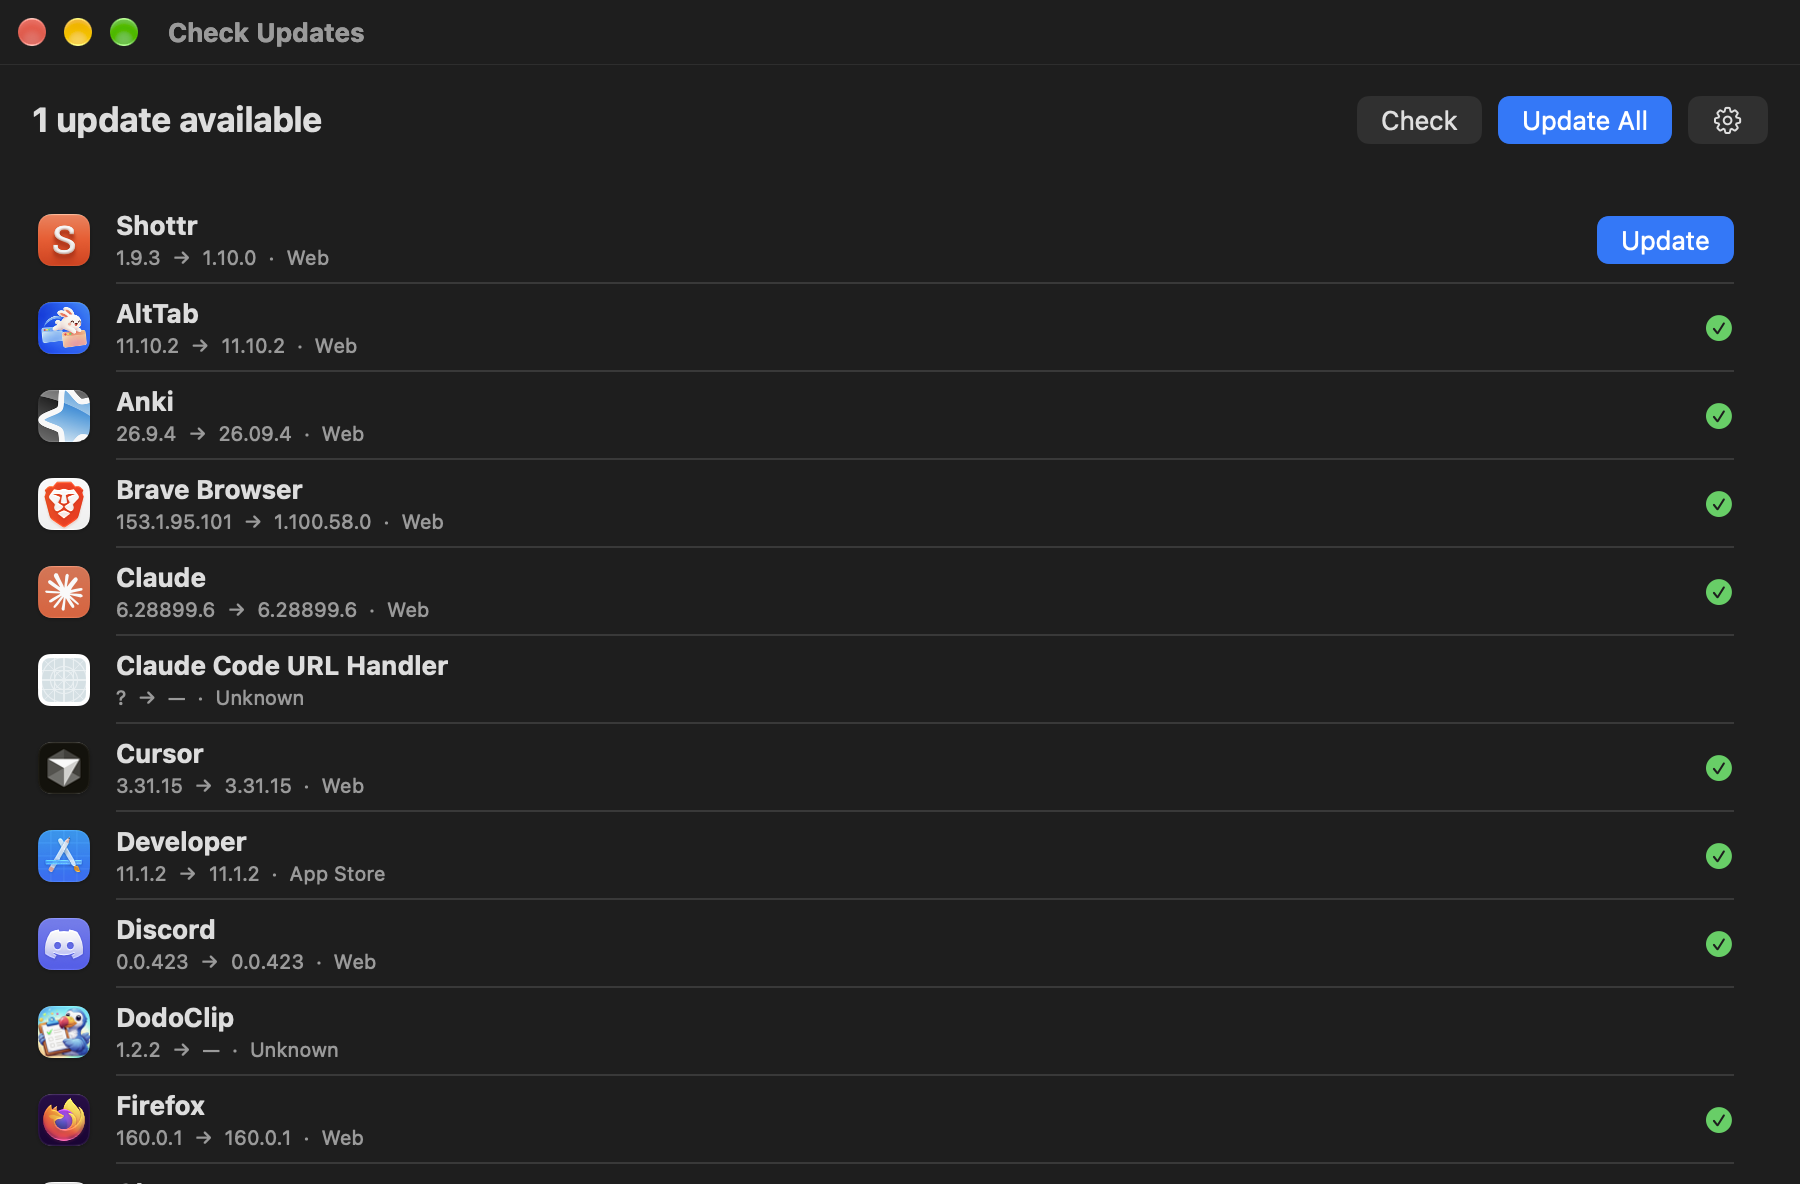
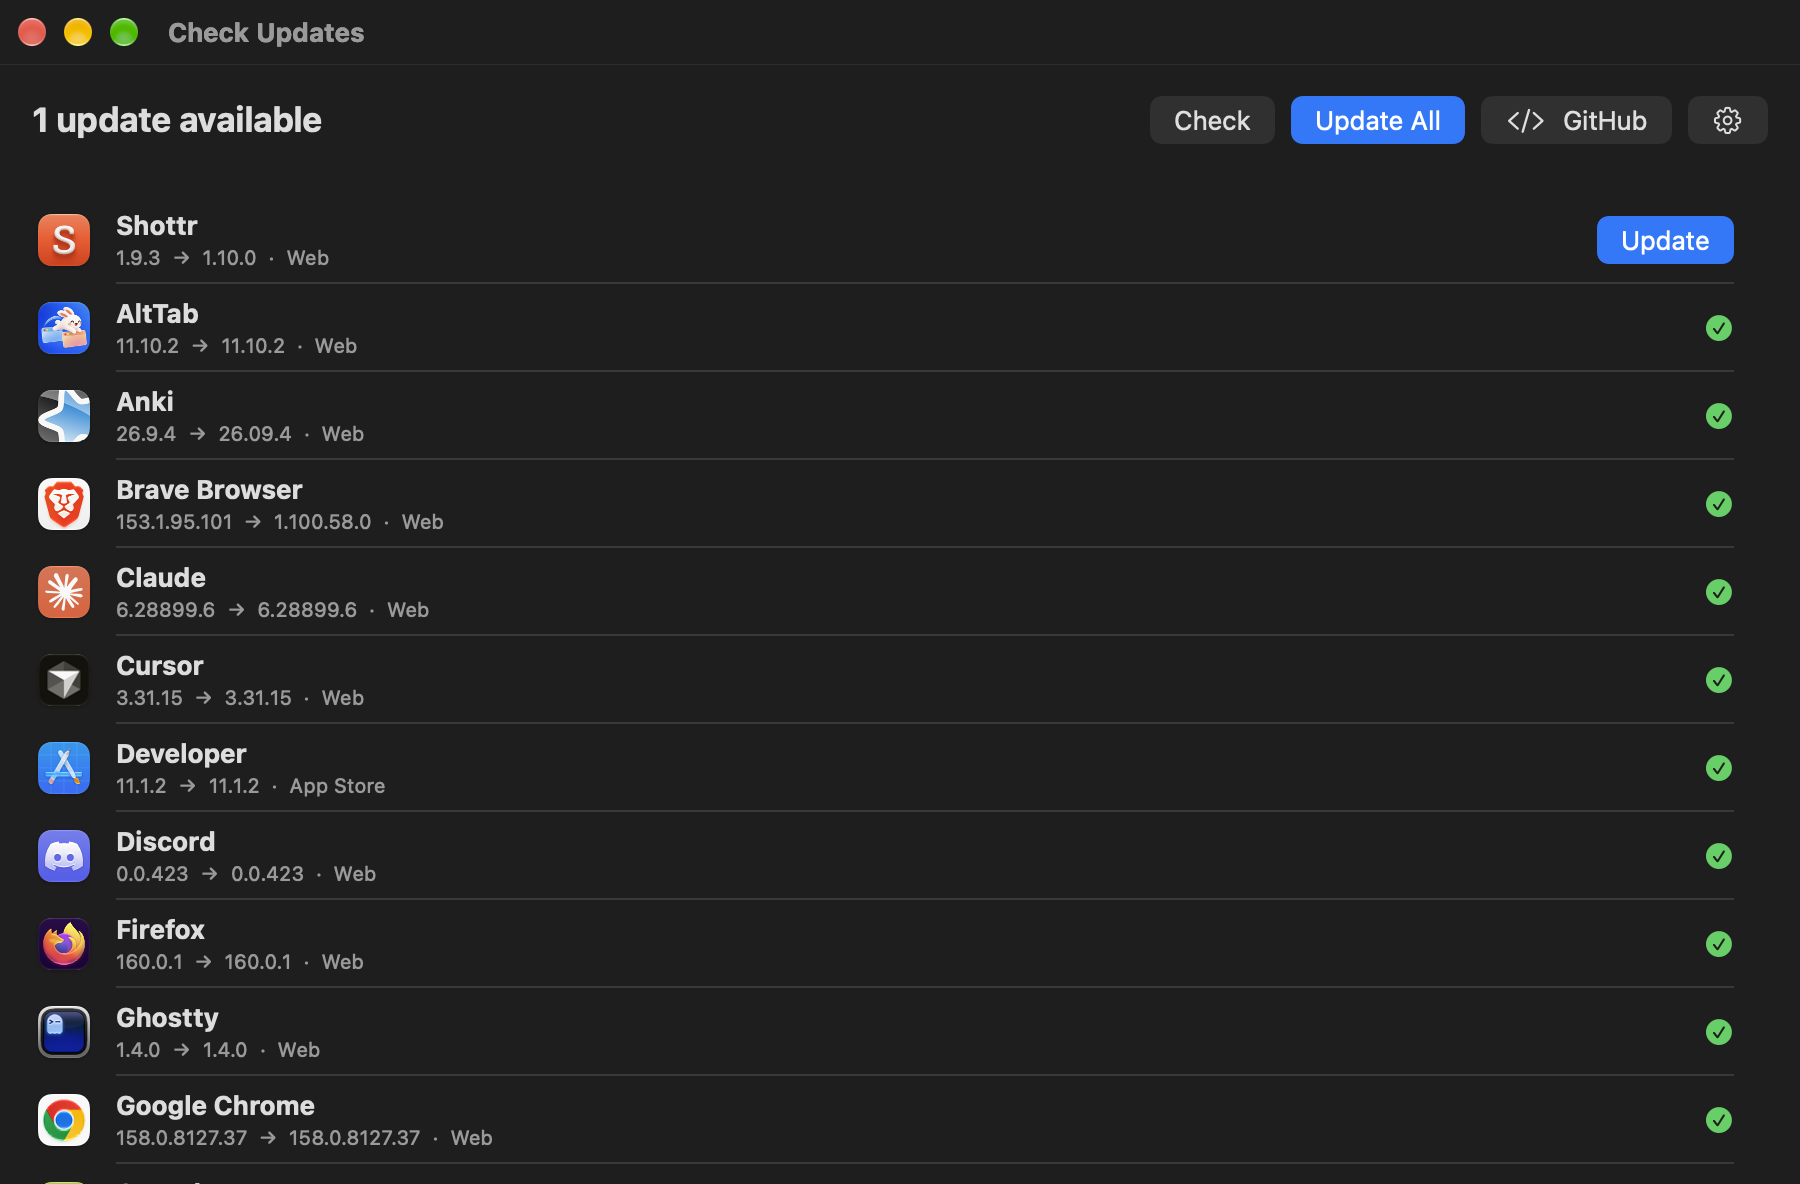
Add MIT license, GitHub button, repo link in About; fix YES/NO settings parsing

diff --git a/main.swift b/main.swift
@@ -58,6 +58,8 @@ func L(_ key: String) -> String {
 func L(_ key: String, _ args: CVarArg...) -> String { String(format: L(key), arguments: args) }
 func pctText(_ p: Double) -> String { isTurkish() ? "%\(Int(p))" : "\(Int(p))%" }
 
+let repoURL = URL(string: "https://github.com/armanalis/check-updates")!
+
 // MARK: - Model
 
 enum Source { case appStore, web, sparkle, unknown
@@ -226,9 +228,11 @@ func check(_ app: AppInfo, casks: [String: Cask]) async -> AppInfo {
 
 enum Pref {
     static var d: UserDefaults { .standard }
-    static var checkMAS: Bool { d.object(forKey: "checkMAS") as? Bool ?? true }
-    static var checkWeb: Bool { d.object(forKey: "checkWeb") as? Bool ?? true }
-    static var showUnknown: Bool { d.object(forKey: "showUnknown") as? Bool ?? true }
+    // bool(forKey:) also understands "YES"/"NO" strings (e.g. from command-line arguments); default is on
+    static func flag(_ k: String) -> Bool { d.object(forKey: k) == nil ? true : d.bool(forKey: k) }
+    static var checkMAS: Bool { flag("checkMAS") }
+    static var checkWeb: Bool { flag("checkWeb") }
+    static var showUnknown: Bool { flag("showUnknown") }
     static var ignored: Set<String> { Set((d.string(forKey: "ignored") ?? "").split(separator: "\n").map(String.init)) }
 }
 
@@ -437,6 +441,10 @@ struct ContentView: View {
                     .keyboardShortcut("r").disabled(locked)
                 Button(L("updateAll")) { confirmAll = true }
                     .buttonStyle(.borderedProminent).disabled(locked || pending.isEmpty)
+                Link(destination: repoURL) {
+                    Label("GitHub", systemImage: "chevron.left.forwardslash.chevron.right")
+                }
+                .buttonStyle(.bordered).help("github.com/armanalis/check-updates")
                 Button { showSettings = true } label: { Image(systemName: "gearshape") }
                     .keyboardShortcut(",").help(L("settings")).disabled(locked)
             }.padding()
@@ -473,17 +481,22 @@ struct ContentView: View {
         }
     }
 
-    /// For README screenshots: `--snapshot main.png settings.png` saves both windows and quits.
+    /// For README screenshots: `--snapshot-dir=/path` saves main.png and settings.png there and quits.
     /// The app draws its own windows, so no screen-recording permission is needed.
+    /// (One dash-prefixed argument on purpose: macOS treats a bare path argument as a document to open
+    /// and then skips creating the main window.)
     func snapshotIfAsked() async {
-        let args = CommandLine.arguments
-        guard let i = args.firstIndex(of: "--snapshot"), i + 2 < args.count else { return }
+        guard let arg = CommandLine.arguments.first(where: { $0.hasPrefix("--snapshot-dir=") }) else { return }
+        let dir = String(arg.dropFirst("--snapshot-dir=".count))
         try? await Task.sleep(for: .seconds(1))
         guard let win = NSApp.windows.first(where: { $0.isVisible }) else { exit(1) }
-        savePNG(win, to: args[i + 1])
+        NSApp.activate(ignoringOtherApps: true) // inactive windows draw gray buttons
+        win.makeKeyAndOrderFront(nil)
+        try? await Task.sleep(for: .seconds(0.5))
+        savePNG(win, to: dir + "/main.png")
         showSettings = true
         try? await Task.sleep(for: .seconds(1.5))
-        if let sheet = win.attachedSheet { savePNG(sheet, to: args[i + 2]) }
+        if let sheet = win.attachedSheet { savePNG(sheet, to: dir + "/settings.png") }
         exit(0)
     }
 
@@ -569,7 +582,7 @@ struct SettingsView: View {
                 } header: { Text(L("apps")) } footer: { Text(L("appsHint")) }
                 Section(L("about")) {
                     LabeledContent("Check Updates", value: Bundle.main.object(forInfoDictionaryKey: "CFBundleShortVersionString") as? String ?? "")
-                    Link("github.com/armanalis", destination: URL(string: "https://github.com/armanalis")!)
+                    Link("github.com/armanalis/check-updates", destination: repoURL)
                 }
             }
             .formStyle(.grouped)

diff --git a/README.md b/README.md
@@ -60,6 +60,10 @@ windows/build.sh      # Windows exe → website/public/CheckUpdates.exe (needs .
 
 Deploy the website (Cloudflare Workers): `cd website && npx wrangler deploy`
 
+## License
+
+[MIT](LICENSE) © 2026 Ali Arman Dai. Free to use, change and share.
+
 ---
 
 Made by [armanalis](https://github.com/armanalis)
